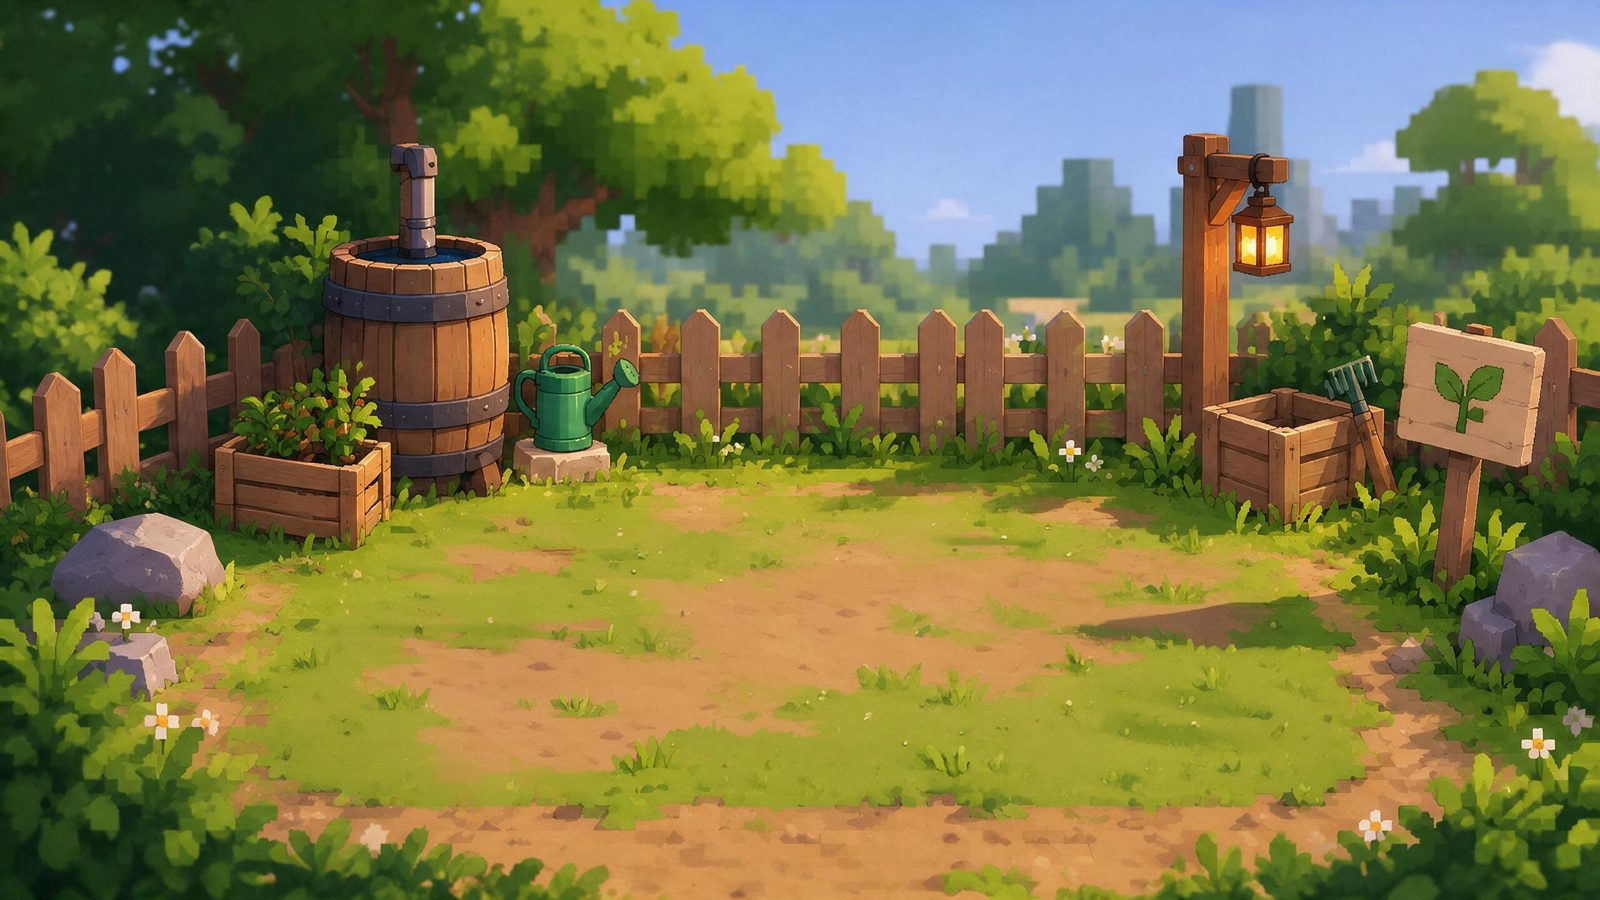
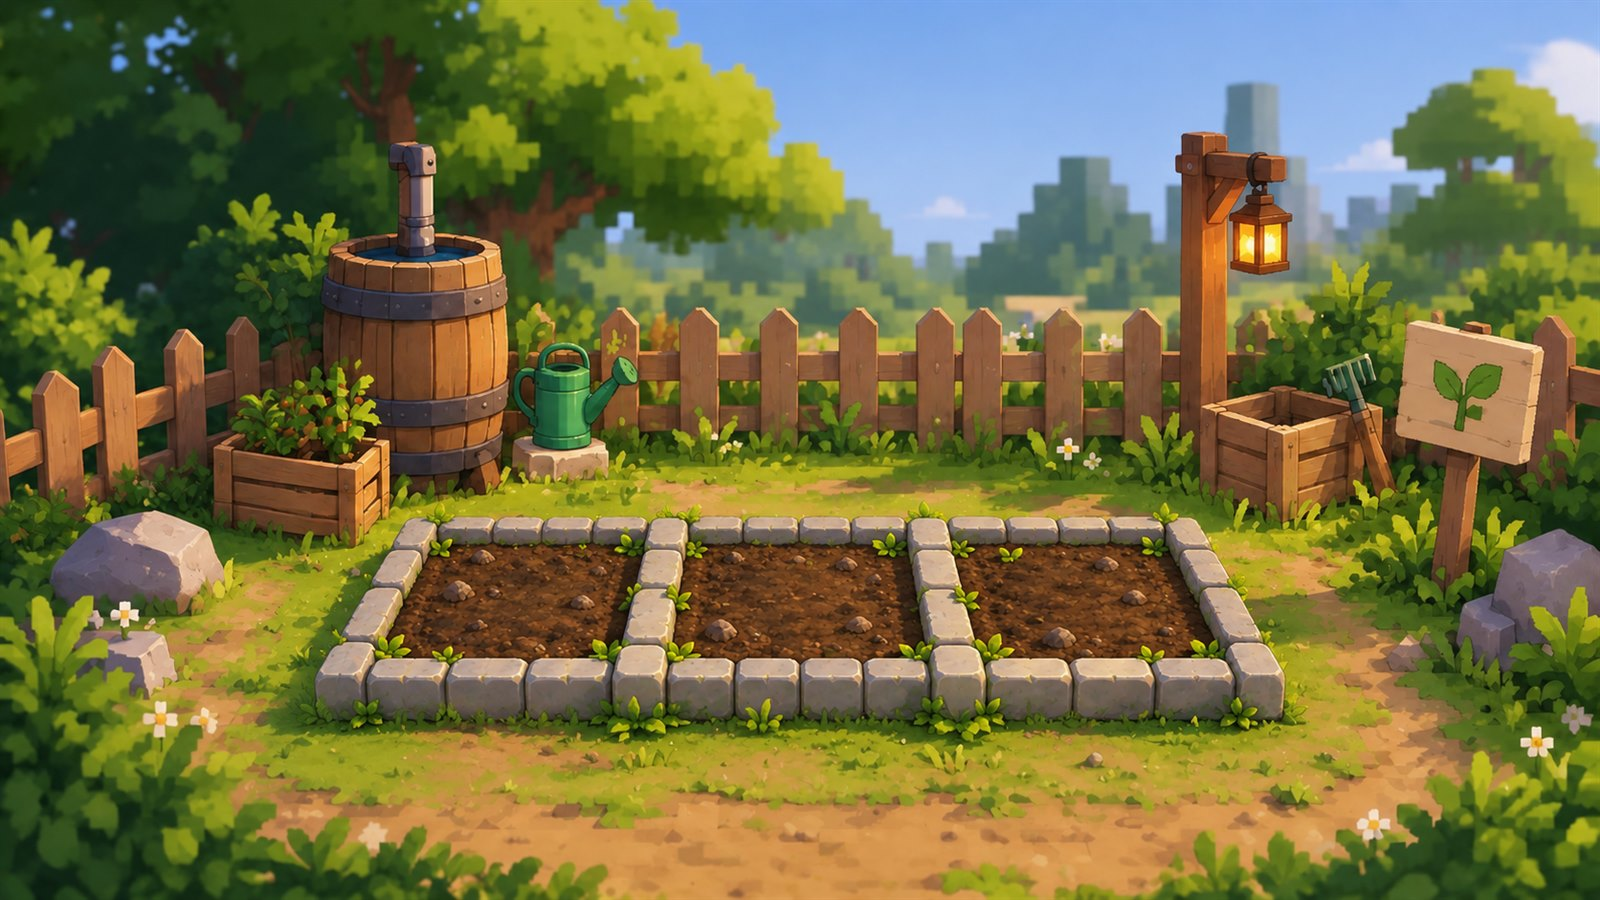
Bake the garden bed into the background art, add painted plant sprites
The 3-slot stone bed is now painted directly into bg-garden.jpg instead of
being composited as a separate sprite — SCENE_BED_META gives the pots/plants
their compartment centres and ground line straight from that illustration.
A bed-less variant (bg-garden-mobile.jpg) covers the fit+mirror path used on
narrow screens, where a baked-in bed would tile unpredictably.

Ground-planted slots (no pot) now render through six painted growth-stage
sprites (seed/germ/young/mature1/mature2/bloom) instead of the procedural
pixel plant, anchored and scaled to match the bed art. Potted plants keep
the procedural renderer for now, since a painted soil mound doesn't fit a
pot's own rim graphic.

diff --git a/src/game.js b/src/game.js
@@ -3533,6 +3533,7 @@ function mixCol(a,b,t){ const A=hexRGB(a),B=hexRGB(b);
   return '#'+A.map((vv,i)=>Math.round(vv+(B[i]-vv)*t).toString(16).padStart(2,'0')).join(''); }
 let _selScrolled=-1; // last pot auto-centered in the mobile scroll view
 let _viewOffX=0; // canvas-px offset that centers the room slots in the widened desktop world
+let _slotBaseXform=null; // transform snapshot taken right before the per-slot loop — see drawOne()'s bloom-sprite branch
 let curRoom=0; // which room the stage shows (🏠 buttons switch it)
 let controlView=false; // 🖥 Control desk: manage every room's bars from one screen
 function roomsCount(){ return 1+(S.inv.roomCount||0); }
@@ -3754,6 +3755,7 @@ function drawGarden(){
   _sceneW=worldW;
   drawScene(x,Math.ceil(worldW/CELL),th);
   x.translate(_viewOffX,0); // pots and bars draw centered in the widened world
+  _slotBaseXform=x.getTransform(); // snapshot: lets drawOne() drop back to plain world coordinates (bypassing the per-slot scale) to place full-size sprites, e.g. the bloom placeholder
   if(!drawBedSprite(x,sh)) for(let i=base;i<base+ROOM_SLOTS;i++) drawBed(x,(i-base)+sh,th); // one 3-slot bed sprite, else procedural stone beds
   // room walls: one divider every 3 slots (each built room adds 3 spaces)
   x.fillStyle=th.fenceD||'#5a5c5e';
@@ -3767,19 +3769,24 @@ function drawGarden(){
     x.restore();
   }
 }
-const SCENE_BG=__ASSET__('bg-garden.jpg'); // Martin's garden illustration (16:9, 1600×900 jpg) — replaces the procedural decor
-let _sceneImg=null;
+const SCENE_BG=__ASSET__('bg-garden.jpg'); // Martin's garden illustration (16:9, 1600×900 jpg) — the 3-slot bed is painted right into it
+const SCENE_BG_MOBILE=__ASSET__('bg-garden-mobile.jpg'); // same illustration MINUS the bed (bare grass/dirt clearing): used whenever the scene is fit+mirrored, since a baked-in bed would tile/mirror unpredictably there
+let _sceneImg=null, _sceneImgMobile=null, _sceneExactFit=false;
 function sceneImage(){ if(!SCENE_BG)return null; if(!_sceneImg){ _sceneImg=new Image(); _sceneImg.src=SCENE_BG; _sceneImg.onload=()=>render(true); } return _sceneImg.complete&&_sceneImg.naturalWidth?_sceneImg:null; }
+function sceneImageMobile(){ if(!SCENE_BG_MOBILE)return null; if(!_sceneImgMobile){ _sceneImgMobile=new Image(); _sceneImgMobile.src=SCENE_BG_MOBILE; _sceneImgMobile.onload=()=>render(true); } return _sceneImgMobile.complete&&_sceneImgMobile.naturalWidth?_sceneImgMobile:null; }
 function drawScene(x,W,th){ // W = world width in cells. Rows: sky 0-33 · trees 30-46 · fence 46-53 · grass 53-GH
   const px=(cx,cy,col,w=1,h=1)=>{ x.fillStyle=col; x.fillRect(cx*CELL,cy*CELL,w*CELL,h*CELL); };
   const img=sceneImage();
   if(img){ const cw=W*CELL, ch=GH*CELL, iw=img.naturalWidth, ih=img.naturalHeight;
-    if(Math.abs(cw/ch-iw/ih)<0.03){ x.imageSmoothingEnabled=true; x.drawImage(img,0,0,cw,ch); if(th.night){ x.fillStyle='rgba(0,26,12,.62)'; x.fillRect(0,0,cw,ch); } return; } // same ratio: the whole illustration, undistorted
-    // otherwise (mobile): fit the lower 74 % (fence → ground) to the height and mirror sideways
-    const VIS=0.74, sc=Math.max(ch/(VIS*ih), cw/(3*iw)), dw=iw*sc, dh=ih*sc, y0=ch-dh, x0=(cw-dw)/2;
+    if(Math.abs(cw/ch-iw/ih)<0.03){ _sceneExactFit=true; x.imageSmoothingEnabled=true; x.drawImage(img,0,0,cw,ch); if(th.night){ x.fillStyle='rgba(0,26,12,.62)'; x.fillRect(0,0,cw,ch); } return; } // same ratio: the whole illustration, undistorted — the baked-in bed lands exactly where SCENE_BED_META expects it
+    // otherwise (mobile): fit the lower 74 % (fence → ground) to the height and mirror sideways — use the bed-less image, else the baked-in bed would tile/mirror across the screen
+    _sceneExactFit=false;
+    const mimg=sceneImageMobile()||img;
+    const miw=mimg.naturalWidth, mih=mimg.naturalHeight;
+    const VIS=0.74, sc=Math.max(ch/(VIS*mih), cw/(3*miw)), dw=miw*sc, dh=mih*sc, y0=ch-dh, x0=(cw-dw)/2;
     x.imageSmoothingEnabled=true;
-    x.drawImage(img,x0,y0,dw,dh);
-    x.save(); x.scale(-1,1); x.drawImage(img,-(x0),y0,dw,dh); x.drawImage(img,-(x0+2*dw),y0,dw,dh); x.restore(); // mirrored copies left & right
+    x.drawImage(mimg,x0,y0,dw,dh);
+    x.save(); x.scale(-1,1); x.drawImage(mimg,-(x0),y0,dw,dh); x.drawImage(mimg,-(x0+2*dw),y0,dw,dh); x.restore(); // mirrored copies left & right
     if(th.night){ x.fillStyle='rgba(0,26,12,.62)'; x.fillRect(0,0,cw,ch); } // night communities: dark green wash
     return; }
   const HZ=46, FENCE0=46, GR=53;
@@ -3804,33 +3811,51 @@ function drawScene(x,W,th){ // W = world width in cells. Rows: sky 0-33 · trees
     const lx=W-8, ly=GR-24; px(lx,ly,th.post,2,24); px(lx-4,ly,th.post,6,1); px(lx-5,ly+1,th.fenceD,3,4); px(lx-4,ly+2,th.lantern,1,2); px(lx-6,ly+2,mixCol(th.lantern,th.skyBot,.6),1,2); px(lx-2,ly+2,mixCol(th.lantern,th.skyBot,.6),1,2);
   }
 }
-const BED_SPRITE=__ASSET__('bed-3slots.webp'); // Martin's 3-compartment stone bed (webp with alpha, 1200×349)
-const BED_META={cx:[257,591,929],bottom:346,soilFront:262,spacing:336}; // measured on the sprite: compartment midpoints, soil front edge, wall bottom // compartment centres & soil bottom in sprite px — one compartment per slot
-let _bedImg=null, _bedSpriteOn=false;
-function bedImage(){ if(!BED_SPRITE)return null; if(!_bedImg){ _bedImg=new Image(); _bedImg.src=BED_SPRITE; _bedImg.onload=()=>render(true); } return _bedImg.complete&&_bedImg.naturalWidth?_bedImg:null; }
-const BED_W_FRAC=0.615, BED_BOTTOM_FRAC=0.83; // bed = 61.5 % of the scene width, centred, its front wall bottom at 83 % of the height (Martin's reference)
-function bedGroundY(){ // world y of the pots' ground line = the bed's soil front edge (fallback: the classic ground row)
-  const img=bedImage(); if(!img||isMobile())return (GH-8)*CELL;
-  const sc=bedScale(); return BED_BOTTOM_FRAC*GH*CELL-(BED_META.bottom-BED_META.soilFront)*sc;
-}
+// the 3-compartment stone bed is now painted directly INTO bg-garden.jpg (no separate sprite to composite) —
+// SCENE_BED_META is measured on that illustration itself (1600×900 base px): each compartment's soil centre,
+// the soil's front edge (= the pots' ground line) and the pitch between compartments.
+const SCENE_BED_META={cx:[505,805,1085],groundY:660,spacing:290};
+let _bedSpriteOn=false;
+function bedActive(){ return _sceneExactFit; } // only when the scene was drawn as a single undistorted copy (set by drawScene) — otherwise (mobile, or a desktop box whose ratio drifts from the illustration's) the baked-in bed's on-screen position isn't predictable
+function sceneScaleX(){ return _sceneW/1600; }
+const SCENE_SCALE_Y=(GH*CELL)/900;
+function bedGroundY(){ return bedActive()?SCENE_BED_META.groundY*SCENE_SCALE_Y:(GH-8)*CELL; } // world y of the pots' ground line = the bed's soil front edge (fallback: the classic ground row)
 let _sceneW=GW*CELL*3;
-function bedScale(){ const img=bedImage(); if(!img)return 1; return Math.min((GW*CELL)/BED_META.spacing, BED_W_FRAC*_sceneW/img.naturalWidth); }
-function slotPitch(){ return (isMobile()||!bedImage())?GW*CELL:BED_META.spacing*bedScale(); } // desktop: the 3 slots are drawn at the bed's compartment pitch (narrower than a logical slot), centred on the middle slot
-function slotCenterX(slot){ // world-px centre of a drawn slot: on the bed sprite, each slot sits on its compartment (measured offsets); otherwise the logical grid
-  const W=GW*CELL; if(isMobile()||!bedImage()) return (slot+0.5)*W;
-  const sc=bedScale(), k=((slot%3)+3)%3, base=slot-k; return (base+1.5)*W+(BED_META.cx[k]-BED_META.cx[1])*sc;
+function slotPitch(){ return bedActive()?SCENE_BED_META.spacing*sceneScaleX():GW*CELL; } // desktop: the 3 slots are drawn at the bed's compartment pitch (narrower than a logical slot), centred on the middle slot
+function slotCenterX(slot){ // world-px centre of a drawn slot: on the baked-in bed, each slot sits on its compartment (measured offsets); otherwise the logical grid
+  const W=GW*CELL; if(!bedActive()) return (slot+0.5)*W;
+  const sx=sceneScaleX(), k=((slot%3)+3)%3, base=slot-k; return (base+1.5)*W+(SCENE_BED_META.cx[k]-SCENE_BED_META.cx[1])*sx;
 }
-function slotOxCells(slot){ return (slotCenterX(slot)-GW*CELL/2)/CELL; } // drawing origin (in cells) — fractional on the sprite
+function slotOxCells(slot){ return (slotCenterX(slot)-GW*CELL/2)/CELL; } // drawing origin (in cells) — fractional on the bed
 function slotScale(){ // pots/plants shrink so a pot spans ~80 % of a compartment's soil (compartment inner width ≈ 78 % of the pitch)
-  if(isMobile()||!bedImage())return 1; return clamp((0.8*0.78*slotPitch())/(22*CELL),0.35,1);
+  if(!bedActive())return 1; return clamp((0.8*0.78*slotPitch())/(22*CELL),0.35,1);
 }
 function slotFromWorldX(wx){ let best=-99, bd=1e9; for(let k=0;k<ROOM_SLOTS;k++){ const d=Math.abs(wx-slotCenterX(k)); if(d<bd){ bd=d; best=k; } } return bd<=slotPitch()/2?best:-99; }
-function drawBedSprite(x,firstSlot){ // the whole 3-slot bed in one sprite: its middle compartment is centred on the middle slot, its soil front edge is the pots' ground line
-  const img=bedImage(); if(!img)return false;
-  const sc=bedScale(), dw=img.naturalWidth*sc, dh=img.naturalHeight*sc;
-  const midX=(firstSlot+1.5)*GW*CELL, x0=midX-BED_META.cx[1]*sc, y0=BED_BOTTOM_FRAC*GH*CELL-BED_META.bottom*sc; // bed anchored by its bottom edge; pots stand on its soil front (bedGroundY)
-  _bedSpriteOn=true;
-  x.imageSmoothingEnabled=true; x.drawImage(img,x0,y0,dw,dh); return true;
+// growth-stage plant art: one painted sprite per stage (placeholder — single neutral colour; per-variety tints come
+// later). Same canvas convention across all of them (soil mound baked into the bottom edge, stem centred), so they
+// can share one anchor/scale formula. Only used for ground-planted slots (no pot): the mound doesn't make sense
+// inside a potted plant's own rim/soil graphic, so potted plants keep the procedural renderer for now.
+const PLANT_STAGE_SPRITES={
+  seed:__ASSET__('plant-seed.png'),
+  germ:__ASSET__('plant-germ.png'),
+  young:__ASSET__('plant-young.png'),
+  mature1:__ASSET__('plant-mature1.png'), // 55–67.5 %
+  mature2:__ASSET__('plant-mature2.png'), // 67.5–80 %: fuller/taller, right before bloom
+  bloom:__ASSET__('plant-bloom.png'),
+};
+let _plantStageImgs={};
+function plantSpriteStage(P){ // which sprite covers this growth fraction — mirrors phaseName()'s thresholds, with "mature" split in two for a smoother run-up to bloom
+  if(P<0.05)return'seed'; if(P<0.25)return'germ'; if(P<0.55)return'young'; if(P<0.675)return'mature1'; if(P<0.80)return'mature2'; return'bloom';
+}
+function plantStageImage(stage){
+  const src=PLANT_STAGE_SPRITES[stage]; if(!src)return null;
+  if(!_plantStageImgs[stage]){ const im=new Image(); im.src=src; im.onload=()=>render(true); _plantStageImgs[stage]=im; }
+  const im=_plantStageImgs[stage];
+  return im.complete&&im.naturalWidth?im:null;
+}
+function drawBedSprite(x,firstSlot){ // nothing to draw: the bed is already painted into the scene background — just flag it active so the soil plot isn't drawn twice
+  if(!bedActive())return false;
+  _bedSpriteOn=true; return true;
 }
 function drawBed(x,slot,th){ // raised stone bed under a slot: border ring + dark soil (the pot or the ground plot sits inside)
   const ox=slotOxCells(slot), baseY=GH-8, w=42, h=15, x0=Math.floor((GW-w)/2), y0=baseY-h+2;
@@ -3953,6 +3978,16 @@ function drawOne(x,idx,slot){
     const r3=mulberry32(p.seed+3);
     for(let i=0;i<4;i++) px(potX0+2+Math.floor(r3()*(potW-4)),soilY-1,v.accent);
     return;
+  }
+  if(mat==='ground'&&!p.dead&&hyd>0){ // painted growth-stage sprite instead of the procedural stem, ground-planted slots only
+    const img=plantStageImage(plantSpriteStage(P));
+    if(img&&_slotBaseXform){
+      const realSlot=slot==null?idx:slot, cx0=slotCenterX(realSlot), gy=bedGroundY()-20, dW=slotPitch(), dH=dW*(img.naturalHeight/img.naturalWidth);
+      x.save(); x.setTransform(_slotBaseXform); x.imageSmoothingEnabled=true;
+      x.drawImage(img,cx0-dW/2,gy-dH,dW,dH);
+      x.restore();
+      return;
+    }
   }
   if(P<0.05&&!p.dead){
     px(topX,soilY-1,v.accent);

diff --git a/README.md b/README.md
@@ -48,9 +48,10 @@ npm run deploy              # build + upload FTP (voir .env.example)
 - Le jeu est en anglais par défaut ; l'interface PC tient sur une page sans scroll ; une seule zone de notifications (haut de la scène) ; aucune dimension ne change à l'affichage d'un pop-up.
 - Invariants de début de partie : 1ʳᵉ coupe à 100 % = 21 bois ; 2ᵉ coupe = 2 graines + tuto pleine terre.
 - Bornes de vitesse : pousse 24 h (communes) → 18 h (rapides) ; 4-8 h avec toutes les améliorations ; ce qui accélère la pousse accélère le séchage.
-- Le potager (`BED_SPRITE`, `BED_META`) impose le pas des emplacements : les pots, plantes et jauges sont dessinés à l'échelle du compartiment et posés sur le bord avant de la terre (`bedGroundY`). Le fond (`SCENE_BG`) impose le ratio de la scène (`layoutScene`).
+- Le potager est peint directement dans `SCENE_BG` (`bg-garden.jpg`, plus de sprite séparé) ; `SCENE_BED_META` (mesuré sur cette illustration) impose le pas des emplacements : les pots, plantes et jauges sont dessinés à l'échelle du compartiment et posés sur le bord avant de la terre (`bedGroundY`). Le fond impose aussi le ratio de la scène (`layoutScene`). Toute nouvelle illustration de fond doit garder le potager au même endroit/à la même échelle, sinon `SCENE_BED_META` (coordonnées mesurées en px sur l'image 1600×900) doit être remesuré.
+- Plante en pleine terre (pas de pot) : rendue via `PLANT_STAGE_SPRITES`/`plantSpriteStage()` — 6 illustrations peintes (seed/germ/young/mature1/mature2/bloom, une seule couleur pour l'instant) plutôt que le dessin procédural pixel. Même convention que le potager : chaque sprite a sa motte de terre peinte en bas de cadre, ancrée sur `bedGroundY()-20`, largeur = `slotPitch()`. Les pots (argile, céramique...) gardent le rendu procédural — la motte peinte n'a pas de sens dans un pot.
 - Sauvegarde : `localStorage`, clé `LS_KEY` — ne pas la changer sans migration, sinon les joueurs perdent leur partie.
 
 ## Assets à produire (2D, PNG/WebP transparent, même perspective que le potager, ~2× la taille d'affichage)
 
-Pots par matière (argile, céramique, grand céramique, terre cuite, plastique, béton, auto-arrosant), parcelle nue, lampe (3 niveaux, allumée/éteinte), goutte-à-goutte (3 niveaux), réservoir, générateur. Les plantes restent procédurales (pixel) pour l'instant.
+Pots par matière (argile, céramique, grand céramique, terre cuite, plastique, béton, auto-arrosant), lampe (3 niveaux, allumée/éteinte), goutte-à-goutte (3 niveaux), réservoir, générateur. Prochaine étape sur les plantes : décliner les 6 sprites de croissance par variété (couleur `accent` de chaque type Normie/Hoodie) et gérer les mutations (dorée/double/lumineuse) en overlay plutôt qu'en art séparé.
